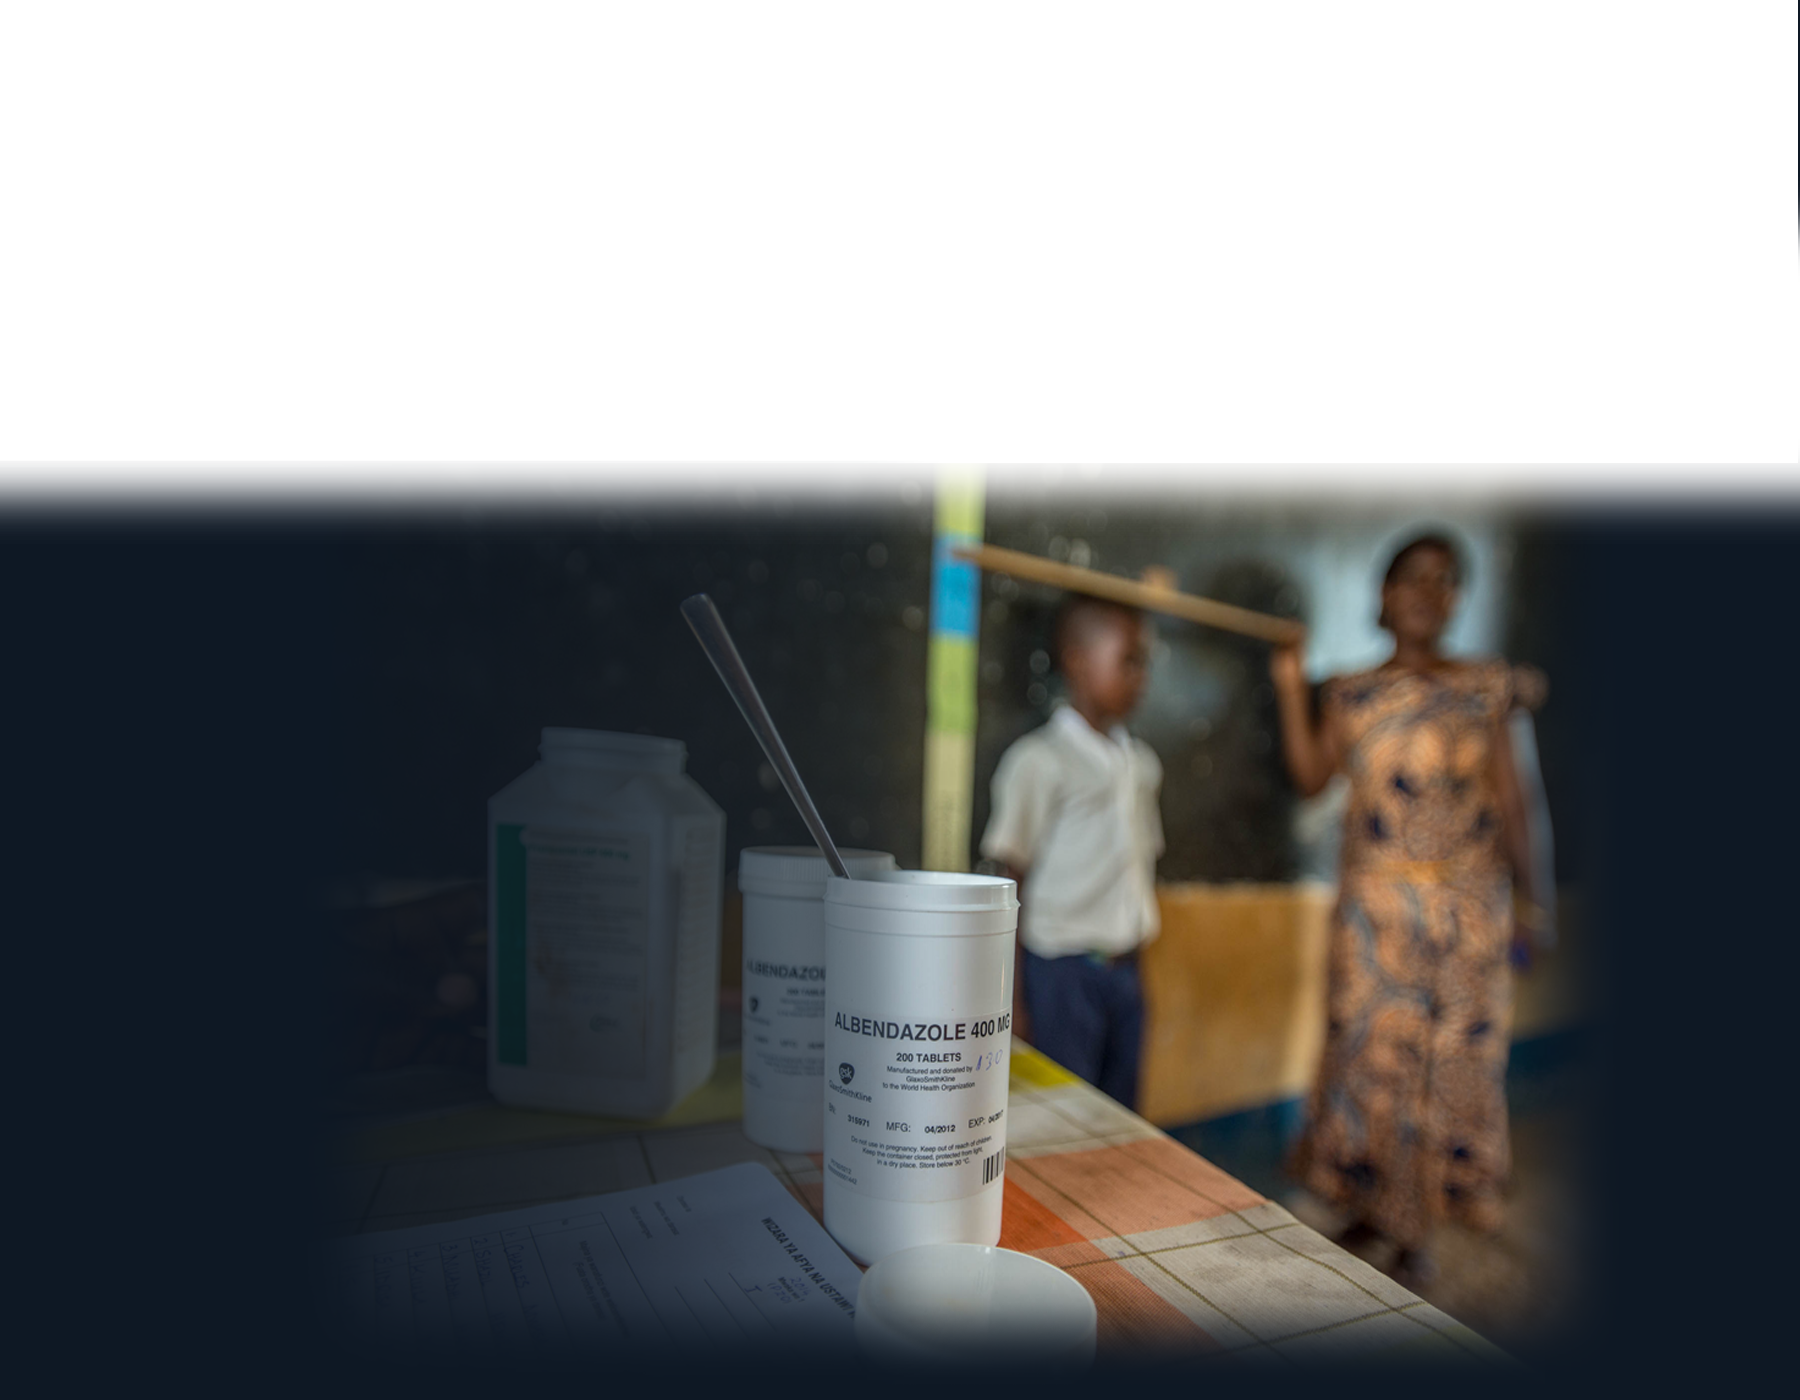
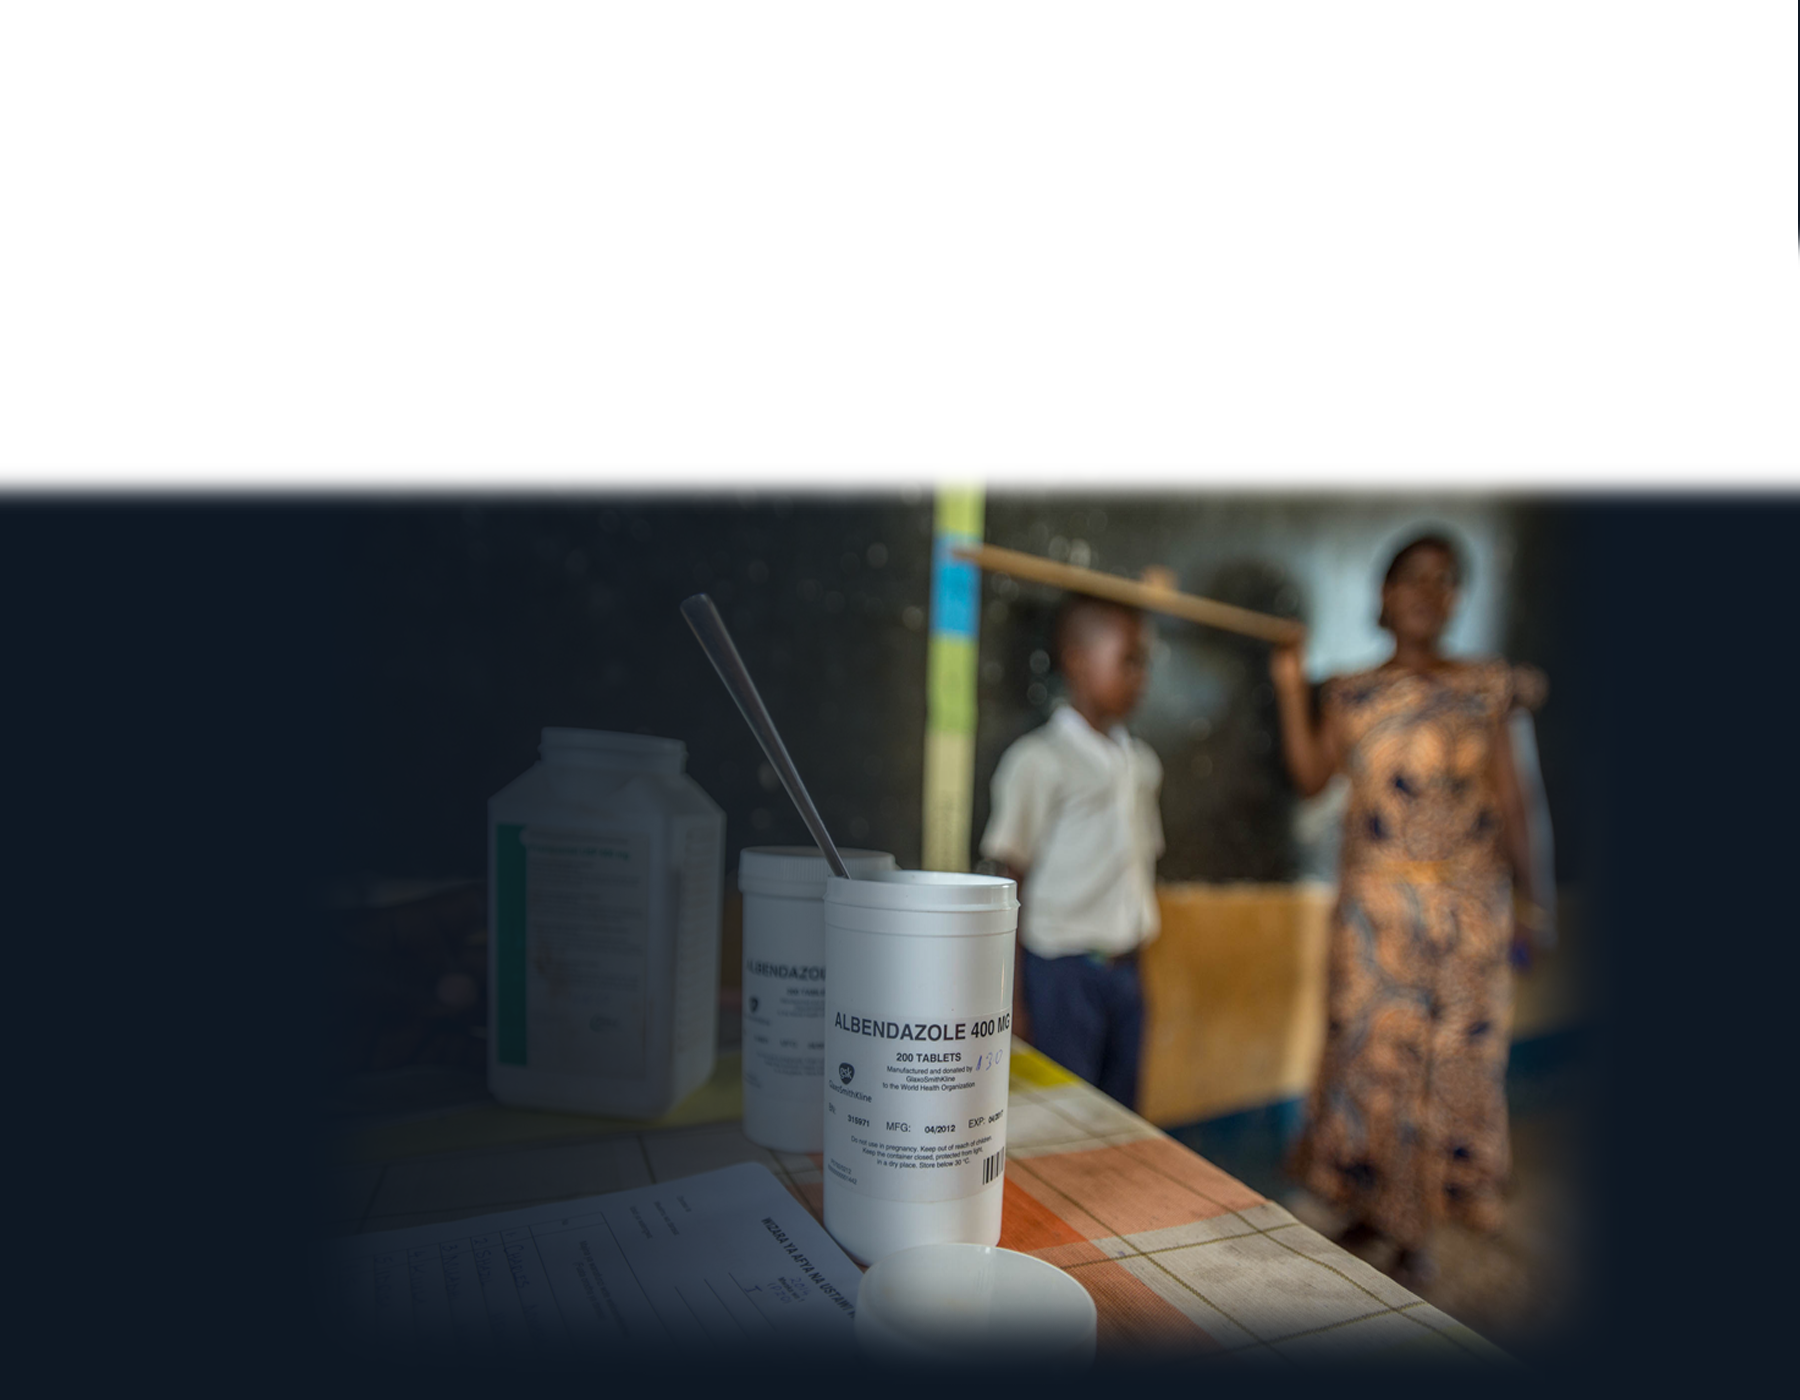
images

Changed region(s): [[0.0, 0.3379, 1.0, 0.3993], [0.9956, 0.1536, 1.0, 0.1843]]

diff --git a/css/styles.css b/css/styles.css
@@ -207,9 +207,6 @@ h1, h2, h3, h4, p, a {
 
 .landingPage {
     /* margin-left: 1rem; */
-    display: flex;
-    justify-content: space-evenly;
-    margin: 0 auto;
 }
 
 .landingPageMobile h1, .landingPage h1 {
